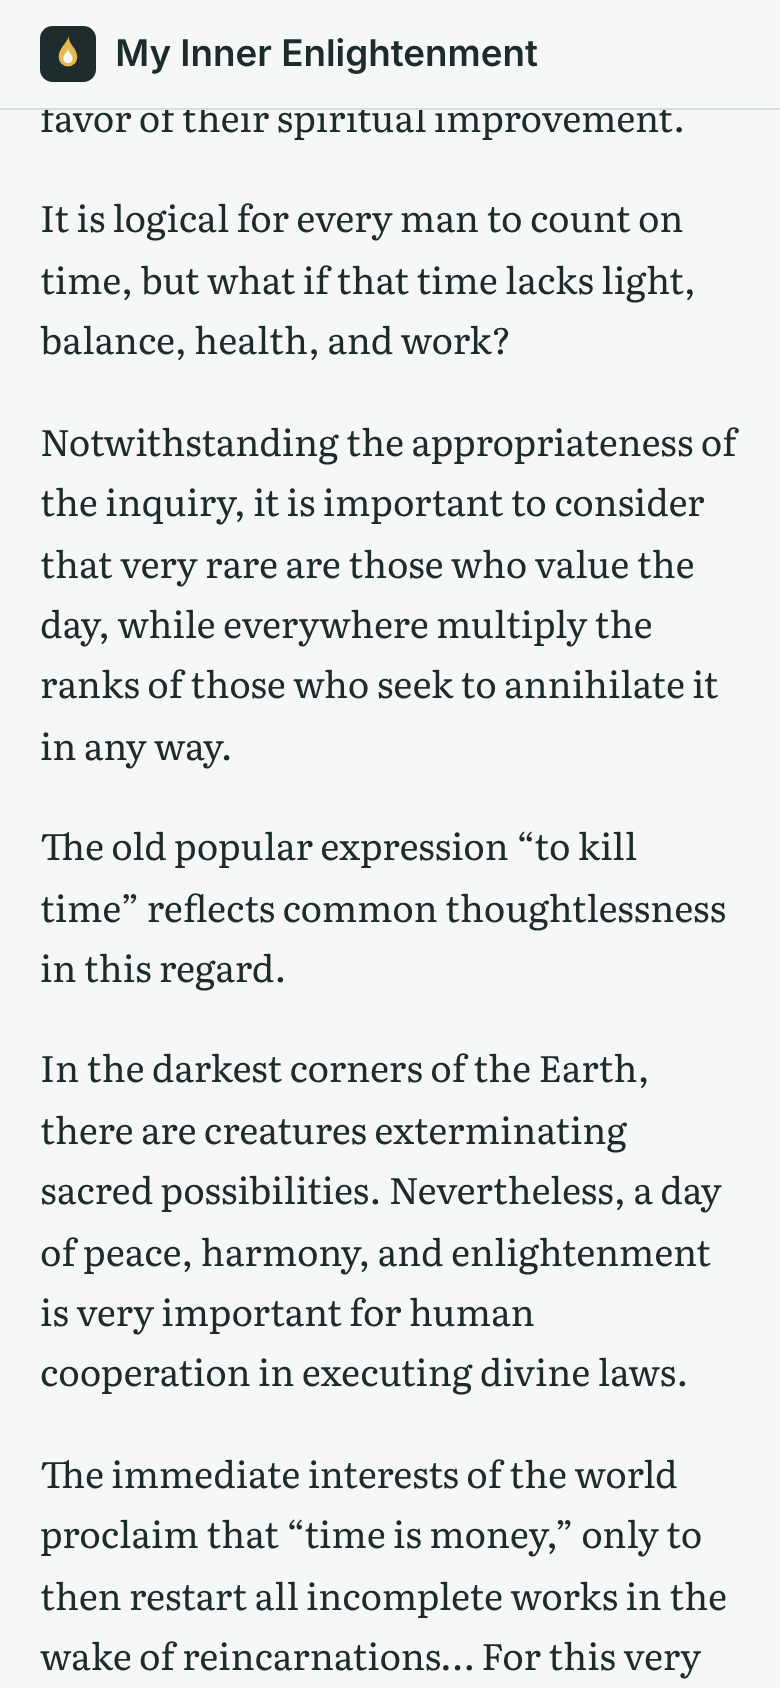
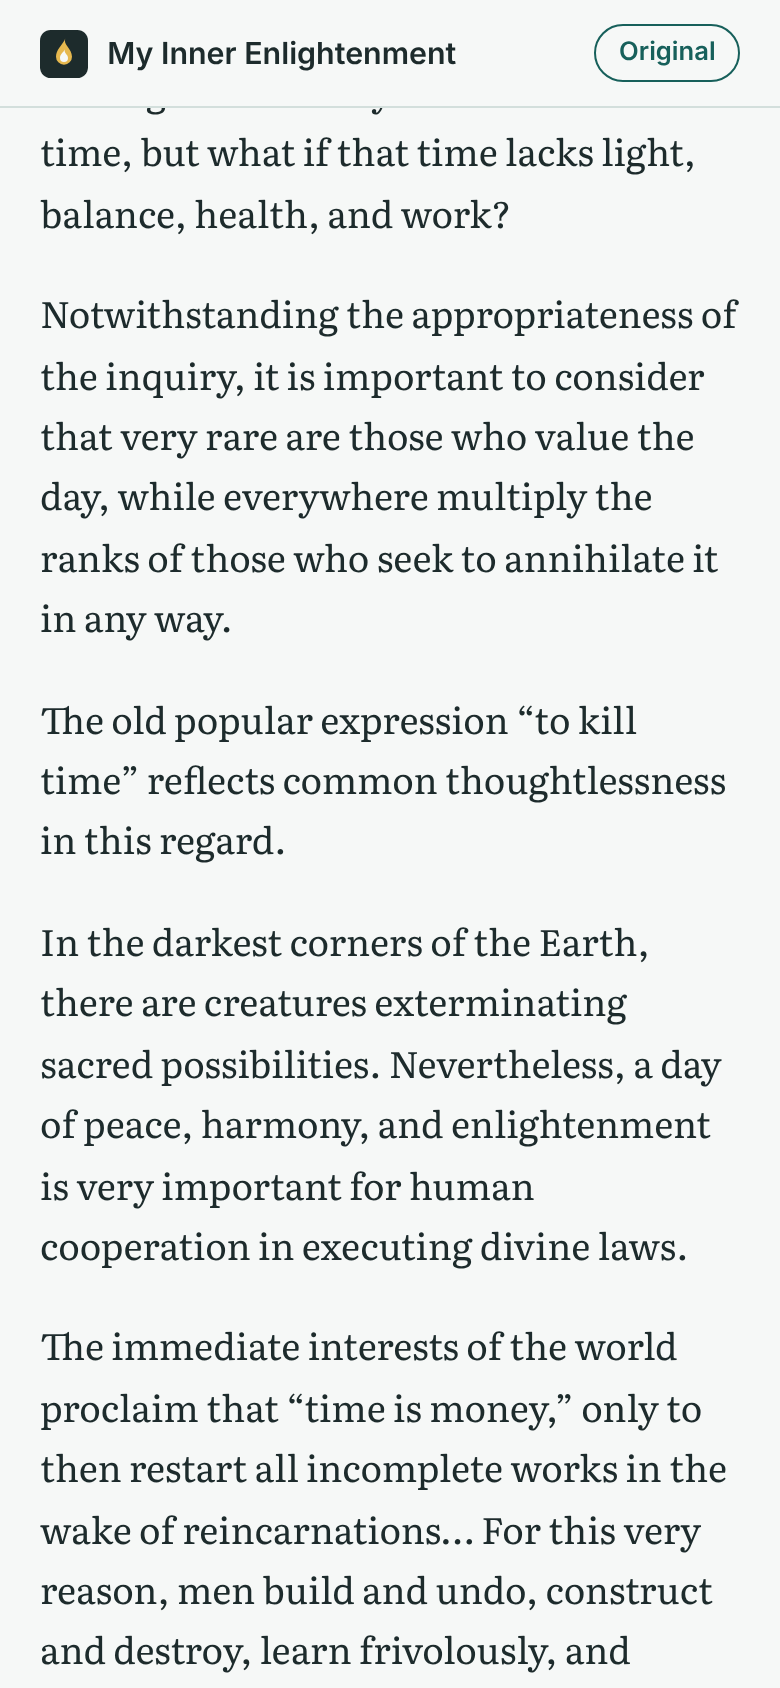
Move the Original switch into the fixed top bar
Claude-Session: https://claude.ai/code/session_011UQNTmJpPS5Mkw2sDd1j8a

Changed region(s): [[0.0308, 0.0, 0.9538, 1.0]]

diff --git a/mobile/App.tsx b/mobile/App.tsx
@@ -107,12 +107,13 @@ function Action({ title, onPress, main = false }: { title: string; onPress: () =
 
 // Every screen: the app's name fixed at the top, so people always know which app this is,
 // and the page scrolling under it.
-function Screen({ children }: { children: ReactNode }) {
+function Screen({ action, children }: { action?: ReactNode; children: ReactNode }) {
   return (
     <View style={styles.app}>
       <View style={styles.appBar}>
         <Image source={require('./assets/icon.png')} style={styles.appIcon} />
         <Text style={styles.appName}>{expo.name}</Text>
+        {action}
       </View>
       <ScrollView contentContainerStyle={styles.page}>{children}</ScrollView>
     </View>
@@ -301,21 +302,23 @@ export default function App() {
     ? withOriginal(message.paragraphs, original.paragraphs)
     : message.paragraphs.map((text) => ({ text, isOriginal: false }));
 
+  // UC-18: the "Original" switch sits in the fixed top bar, so it stays in reach while reading.
+  const originalSwitch = isTranslation ? (
+    <Pressable
+      accessibilityRole="switch"
+      accessibilityState={{ checked: showOriginal }}
+      onPress={() => setShowOriginal(!showOriginal)}
+      style={[styles.pill, showOriginal && styles.pillOn]}
+    >
+      <Text style={[styles.pillText, showOriginal && styles.pillTextOn]}>{labels.en.original}</Text>
+    </Pressable>
+  ) : (
+    <Text style={[styles.pill, styles.originalMark]}>{labels.pt.original}</Text>
+  );
+
   return (
-    <Screen>
+    <Screen action={originalSwitch}>
       <View style={styles.topBar}>
-        {isTranslation ? (
-          <Pressable
-            accessibilityRole="switch"
-            accessibilityState={{ checked: showOriginal }}
-            onPress={() => setShowOriginal(!showOriginal)}
-            style={[styles.pill, showOriginal && styles.pillOn]}
-          >
-            <Text style={[styles.pillText, showOriginal && styles.pillTextOn]}>{labels.en.original}</Text>
-          </Pressable>
-        ) : (
-          <Text style={[styles.pill, styles.originalMark]}>{labels.pt.original}</Text>
-        )}
         <MenuButton onPress={() => setMenuOpen(true)} />
       </View>
       {/* The menu opens under the button at the top right; tapping outside closes it. */}
@@ -364,9 +367,9 @@ export default function App() {
 
 const styles = StyleSheet.create({
   app: { flex: 1, backgroundColor: colors.paper },
-  appBar: { flexDirection: 'row', alignItems: 'center', gap: 10, paddingTop: 48, paddingBottom: 12, paddingHorizontal: 24, borderBottomWidth: 1, borderColor: colors.rule },
+  appBar: { flexDirection: 'row', alignItems: 'center', gap: 10, paddingTop: 48, paddingBottom: 12, paddingHorizontal: 16, borderBottomWidth: 1, borderColor: colors.rule },
   appIcon: { width: 28, height: 28, borderRadius: 6 },
-  appName: { fontSize: 17, fontWeight: '600', color: colors.ink },
+  appName: { flex: 1, fontSize: 17, fontWeight: '600', color: colors.ink },
   page: { padding: 24, paddingBottom: 48 },
   title: { fontFamily: 'serif', fontSize: 34, lineHeight: 40, fontWeight: '600', color: colors.ink, marginBottom: 6 },
   source: { fontSize: 14, color: colors.muted, marginBottom: 28 },
@@ -378,7 +381,7 @@ const styles = StyleSheet.create({
   pressed: { opacity: 0.7 },
   actionText: { fontSize: 17, fontWeight: '600', color: colors.spring },
   mainActionText: { color: colors.paper },
-  topBar: { flexDirection: 'row', justifyContent: 'space-between', alignItems: 'flex-start' },
+  topBar: { flexDirection: 'row', justifyContent: 'flex-end', alignItems: 'flex-start' },
   menuButton: { width: 48, height: 48, marginTop: -8, marginRight: -8, alignItems: 'center', justifyContent: 'center', gap: 5 },
   bar: { width: 22, height: 2, borderRadius: 1, backgroundColor: colors.ink },
   backdrop: { flex: 1, backgroundColor: 'rgba(0, 0, 0, 0.15)' },
@@ -389,11 +392,11 @@ const styles = StyleSheet.create({
   row: { flexDirection: 'row', alignItems: 'center', justifyContent: 'space-between', minHeight: 52, borderBottomWidth: 1, borderColor: colors.rule },
   label: { fontSize: 18, color: colors.ink },
   warning: { color: colors.warning, marginBottom: 8 },
-  pill: { alignSelf: 'flex-start', borderWidth: 1.5, borderColor: colors.spring, borderRadius: 18, paddingVertical: 6, paddingHorizontal: 16, marginBottom: 16 },
+  pill: { alignSelf: 'flex-start', borderWidth: 1.5, borderColor: colors.spring, borderRadius: 18, paddingVertical: 4, paddingHorizontal: 12 },
   pillOn: { backgroundColor: colors.spring },
-  pillText: { fontSize: 15, fontWeight: '600', color: colors.spring },
+  pillText: { fontSize: 14, fontWeight: '600', color: colors.spring },
   pillTextOn: { color: colors.paper },
-  originalMark: { borderColor: colors.rule, fontSize: 15, color: colors.muted },
+  originalMark: { borderColor: colors.rule, fontSize: 14, color: colors.muted },
   original: { fontStyle: 'italic', color: colors.muted, borderLeftWidth: 3, borderColor: colors.rule, paddingLeft: 12 },
   disclaimer: { fontSize: 13, color: colors.muted, marginTop: 24 },
   backButton: { marginTop: 32 },

diff --git a/scripts/build-site.ts b/scripts/build-site.ts
@@ -112,6 +112,7 @@ class Website {
       .filter((c) => c !== content && c.messages.some((m) => m.id === message.id))
       .map((c) => `<a href="../../${c.language}/${message.slug}/">${this.labels[c.language].name}</a>`)
       .join('');
+    const original = this.original(content, message);
     const body = this.render('message', {
       anotherMessage: labels.anotherMessage,
       index: labels.index,
@@ -120,7 +121,8 @@ class Website {
       otherLanguages,
       meta,
       title: escapeHtml(message.title),
-      ...this.original(content, message),
+      originalTitle: original.originalTitle,
+      paragraphs: original.paragraphs,
       signature: signature(message),
       note: message.note ? `<p class="note">${escapeHtml(message.note)}</p>` : '',
       url: escapeHtml(originalLink(message.url, content.language)),
@@ -128,23 +130,26 @@ class Website {
       credit: this.render('credit', {}),
       disclaimer: `<p class="disclaimer">${[labels.disclaimer, labels.translationDisclaimer].filter((text) => text).join(' ')}</p>`,
     });
-    return this.page(content.language, message.title, '../../', body);
+    return this.page(content.language, message.title, '../../', body, original);
   }
 
   // UC-18: on a translation, an "Original" switch that shows the Portuguese text after each paragraph;
   // it works without JavaScript (a checkbox, see style.css). The Portuguese page is marked as the original.
-  original(content: Content, message: Message): { originalToggle: string; originalTitle: string; paragraphs: string } {
+  // The switch sits in the page's top bar, so `checkbox` and `label` go to the layout, apart from the text.
+  original(content: Content, message: Message): { checkbox: string; label: string; originalTitle: string; paragraphs: string } {
     const label = this.labels[content.language].original;
     const original = this.contents.find((c) => c.language === 'pt')?.messages.find((m) => m.id === message.id);
     if (content.language === 'pt' || !original) {
       return {
-        originalToggle: content.language === 'pt' ? `<p class="original-mark">${label}</p>` : '',
+        checkbox: '',
+        label: content.language === 'pt' ? `<span class="original-mark">${label}</span>` : '',
         originalTitle: '',
         paragraphs: message.paragraphs.map((p) => `<p>${escapeHtml(p)}</p>`).join('\n'),
       };
     }
     return {
-      originalToggle: `<input type="checkbox" id="show-original" class="show-original"><label for="show-original">${label}</label>`,
+      checkbox: '<input type="checkbox" id="show-original" class="show-original">',
+      label: `<label for="show-original">${label}</label>`,
       originalTitle: `<p class="original" lang="pt">${escapeHtml(original.title)}</p>`,
       paragraphs: withOriginal(message.paragraphs, original.paragraphs)
         .map((p) => (p.isOriginal ? `<p class="original" lang="pt">${escapeHtml(p.text)}</p>` : `<p>${escapeHtml(p.text)}</p>`))
@@ -153,8 +158,9 @@ class Website {
   }
 
   // `root` is the path from the page to the site's root folder, for the stylesheet.
-  page(language: string, title: string, root: string, body: string): string {
-    return this.render('layout', { language, title: escapeHtml(title), root, body: body.trimEnd() });
+  page(language: string, title: string, root: string, body: string, original = { checkbox: '', label: '' }): string {
+    const values = { language, title: escapeHtml(title), root, body: body.trimEnd() };
+    return this.render('layout', { ...values, originalCheckbox: original.checkbox, originalLabel: original.label });
   }
 
   // `prefix` is the path from the page to the language folder. Without JavaScript it shows `fallback`.

diff --git a/website/style.css b/website/style.css
@@ -50,7 +50,9 @@ li a:hover { text-decoration: underline; }
   font-weight: 600;
   color: var(--ink);
 }
-.app-bar img { width: 1.75rem; height: 1.75rem; }
+.app-bar { font-size: 0.95rem; }
+.app-bar img { width: 1.5rem; height: 1.5rem; }
+.app-bar .app-name { flex: 1; }
 
 /* The top bar: the main action on the left, the languages on the right. */
 nav { display: flex; flex-wrap: wrap; align-items: center; justify-content: space-between; gap: 0.75rem; }
@@ -115,19 +117,16 @@ footer { margin-top: 4rem; border-top: 1px solid var(--rule); padding-top: 1.5re
 
 /* UC-18: the "Original" switch is a checkbox drawn as a button; when on, the Portuguese paragraphs show. */
 .show-original { position: absolute; opacity: 0; }
-.show-original + label, .original-mark {
-  display: inline-block;
-  margin-top: 1.5rem;
-  padding: 0.4rem 1rem;
+.app-bar label, .original-mark {
+  padding: 0.2rem 0.7rem;
   border: 1.5px solid var(--spring);
   border-radius: 999px;
-  font-family: var(--sans);
-  font-size: 0.9rem;
+  font-size: 0.8rem;
   color: var(--spring);
 }
-.show-original + label { cursor: pointer; }
-.show-original:checked + label { background: var(--spring); color: var(--paper); }
-.show-original:focus-visible + label { outline: 2px solid var(--spring); outline-offset: 3px; }
+.app-bar label { cursor: pointer; }
+.show-original:checked ~ .app-bar label { background: var(--spring); color: var(--paper); }
+.show-original:focus-visible ~ .app-bar label { outline: 2px solid var(--spring); outline-offset: 3px; }
 .original-mark { border-color: var(--rule); color: var(--muted); }
 .original { display: none; color: var(--muted); font-style: italic; border-left: 3px solid var(--rule); padding-left: 1rem; }
 .show-original:checked ~ .original { display: block; }

diff --git a/specs/ops/steps/browser.steps.ts b/specs/ops/steps/browser.steps.ts
@@ -62,9 +62,11 @@ When('the page is scrolled to the end', async function (this: World) {
   await this.page.evaluate(() => window.scrollTo(0, document.body.scrollHeight));
 });
 
-Then('{string} is at the top of the screen', async function (this: World, text: string) {
-  const box = await this.page.getByText(text, { exact: true }).boundingBox();
-  assert.ok(box && box.y >= 0 && box.y < 60, `"${text}" is at ${box?.y} pixels from the top`);
+Then(/^(.+) (?:is|are) at the top of the screen$/, async function (this: World, texts: string) {
+  for (const text of quoted(texts)) {
+    const box = await this.page.getByText(text, { exact: true }).boundingBox();
+    assert.ok(box && box.y >= 0 && box.y < 60, `"${text}" is at ${box?.y} pixels from the top`);
+  }
 });
 
 Then(/^the browser shows (.+)$/, async function (this: World, texts: string) {

diff --git a/website/templates/message.html b/website/templates/message.html
@@ -2,7 +2,6 @@
 <details class="menu"><summary aria-label="{{menu}}" title="{{menu}}"><span class="bars"></span></summary>
 <div class="menu-items"><a href="../">{{index}}</a><strong class="current" aria-current="true">{{languageName}}</strong>{{otherLanguages}}</div>
 </details></nav>
-{{originalToggle}}
 <h1>{{title}}</h1>
 {{originalTitle}}
 <p class="meta">{{meta}}</p>

diff --git a/website/templates/layout.html b/website/templates/layout.html
@@ -11,7 +11,8 @@
 <link rel="icon" href="{{root}}favicon.svg">
 </head>
 <body>
-<header class="app-bar"><img src="{{root}}favicon.svg" alt=""> My Inner Enlightenment</header>
+{{originalCheckbox}}
+<header class="app-bar"><img src="{{root}}favicon.svg" alt=""><span class="app-name">My Inner Enlightenment</span>{{originalLabel}}</header>
 {{body}}
 </body>
 </html>
